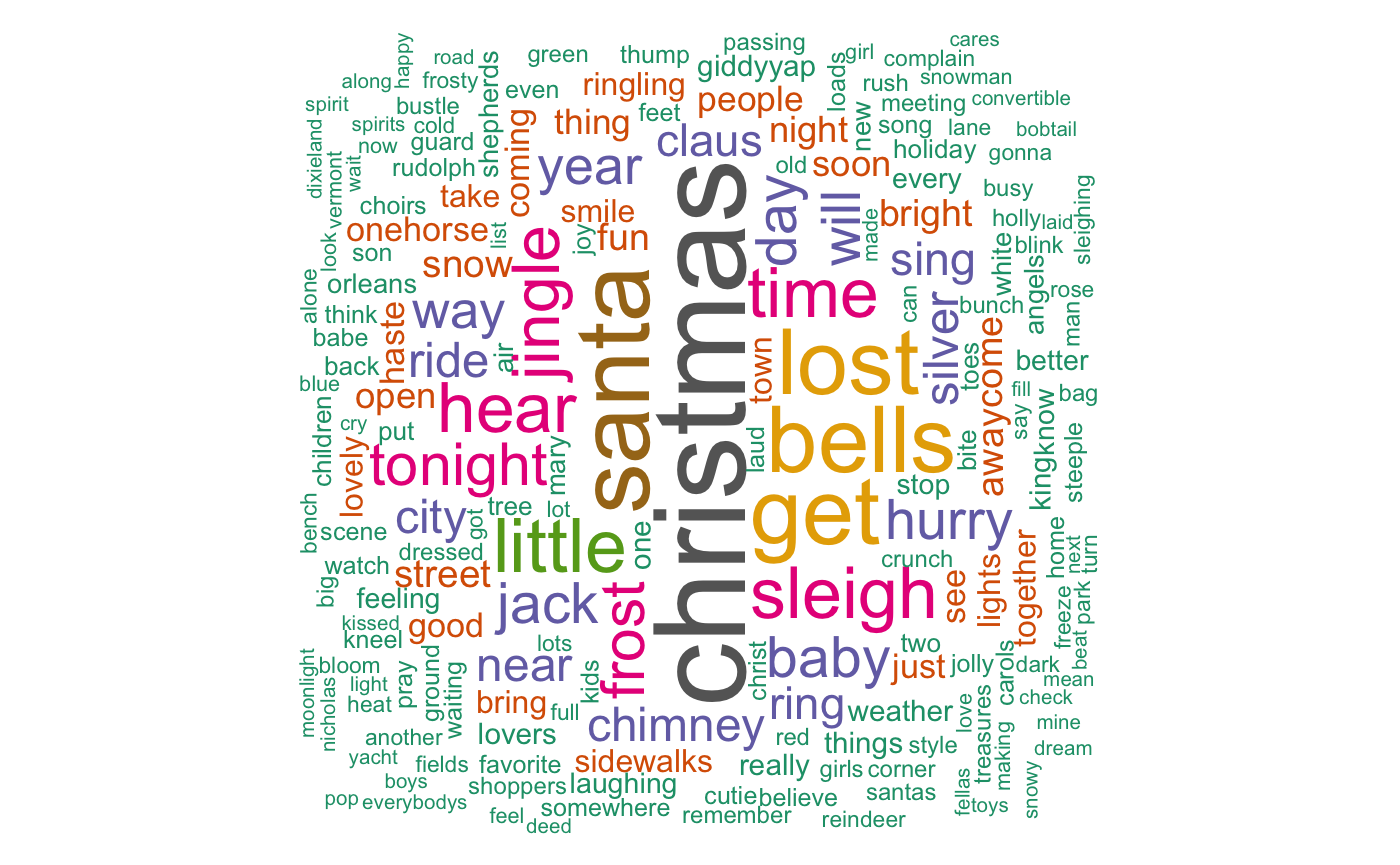
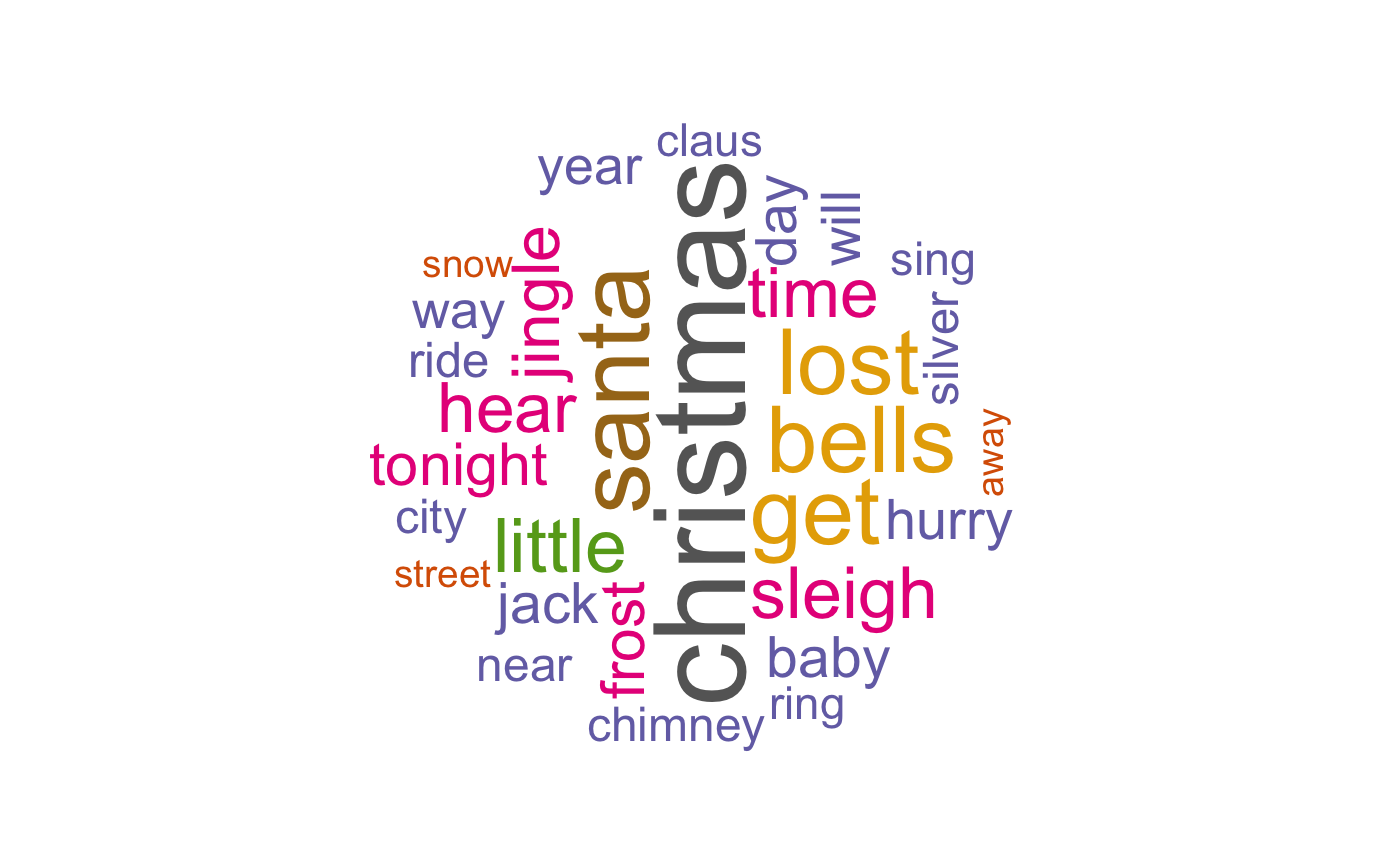
unit test done

diff --git a/docs/reference/create_wordcloud.html b/docs/reference/create_wordcloud.html
@@ -108,8 +108,8 @@ are already stored within the geniusR package.</p>
     
     </div>
 
-    <pre class="usage"><span class='fu'>create_wordcloud</span>(<span class='kw'>data</span> <span class='kw'>=</span> <span class='no'>data</span>, <span class='no'>playlist</span>, <span class='kw'>stop_vector</span> <span class='kw'>=</span> <span class='no'>F</span>,
-  <span class='kw'>del_file</span> <span class='kw'>=</span> <span class='no'>T</span>)</pre>
+    <pre class="usage"><span class='fu'>create_wordcloud</span>(<span class='kw'>data</span> <span class='kw'>=</span> <span class='no'>data</span>, <span class='no'>playlist</span>, <span class='kw'>stop_vector</span> <span class='kw'>=</span> <span class='fl'>NA</span>,
+  <span class='kw'>max_words</span> <span class='kw'>=</span> <span class='fl'>30</span>, <span class='kw'>del_file</span> <span class='kw'>=</span> <span class='no'>T</span>)</pre>
     
     <h2 class="hasAnchor" id="arguments"><a class="anchor" href="#arguments"></a>Arguments</h2>
     <table class="ref-arguments">
@@ -124,7 +124,11 @@ are already stored within the geniusR package.</p>
     </tr>
     <tr>
       <th>stop_vector</th>
-      <td><p>a boolean</p></td>
+      <td><p>a vector</p></td>
+    </tr>
+    <tr>
+      <th>max_words</th>
+      <td><p>an integer</p></td>
     </tr>
     <tr>
       <th>del_file</th>
@@ -150,9 +154,9 @@ the word cloud.</p>
 <span class='fu'>create_wordcloud</span>(<span class='kw'>data</span> <span class='kw'>=</span> <span class='no'>christmas_playlists</span>, <span class='st'>"Christmas Classics"</span>, <span class='fu'>c</span>(<span class='st'>"yeah"</span>, <span class='st'>"like"</span>), <span class='kw'>del_file</span> <span class='kw'>=</span> <span class='no'>T</span>)</div><div class='output co'>#&gt; <span class='message'>Loading required package: geniusR</span></div><div class='output co'>#&gt; <span class='message'>Loading required package: tm</span></div><div class='output co'>#&gt; <span class='message'>Loading required package: NLP</span></div><div class='output co'>#&gt; <span class='message'></span>
 #&gt; <span class='message'>Attaching package: ‘NLP’</span></div><div class='output co'>#&gt; <span class='message'>The following object is masked from ‘package:ggplot2’:</span>
 #&gt; <span class='message'></span>
-#&gt; <span class='message'>    annotate</span></div><div class='output co'>#&gt; <span class='message'>Loading required package: SnowballC</span></div><div class='output co'>#&gt; <span class='message'>Loading required package: RColorBrewer</span></div><div class='output co'>#&gt; <span class='message'>Loading required package: RCurl</span></div><div class='output co'>#&gt; <span class='message'>Loading required package: bitops</span></div><div class='output co'>#&gt; <span class='message'>Loading required package: XML</span></div><div class='output co'>#&gt; <span class='warning'>Warning: the condition has length &gt; 1 and only the first element will be used</span></div><div class='output co'>#&gt; <span class='warning'>Warning: the condition has length &gt; 1 and only the first element will be used</span></div><div class='output co'>#&gt; <span class='warning'>Warning: the condition has length &gt; 1 and only the first element will be used</span></div><div class='output co'>#&gt; <span class='warning'>Warning: the condition has length &gt; 1 and only the first element will be used</span></div><div class='output co'>#&gt; <span class='warning'>Warning: the condition has length &gt; 1 and only the first element will be used</span></div><div class='output co'>#&gt; <span class='warning'>Warning: the condition has length &gt; 1 and only the first element will be used</span></div><div class='output co'>#&gt; <span class='warning'>Warning: the condition has length &gt; 1 and only the first element will be used</span></div><div class='output co'>#&gt; <span class='warning'>Warning: the condition has length &gt; 1 and only the first element will be used</span></div><div class='output co'>#&gt; <span class='warning'>Warning: the condition has length &gt; 1 and only the first element will be used</span></div><div class='output co'>#&gt; <span class='warning'>Warning: the condition has length &gt; 1 and only the first element will be used</span></div><div class='output co'>#&gt; <span class='warning'>Warning: the condition has length &gt; 1 and only the first element will be used</span></div><div class='output co'>#&gt; <span class='warning'>Warning: the condition has length &gt; 1 and only the first element will be used</span></div><div class='output co'>#&gt; <span class='warning'>Warning: the condition has length &gt; 1 and only the first element will be used</span></div><div class='output co'>#&gt; <span class='warning'>Warning: the condition has length &gt; 1 and only the first element will be used</span></div><div class='output co'>#&gt; <span class='warning'>Warning: the condition has length &gt; 1 and only the first element will be used</span></div><div class='output co'>#&gt; <span class='warning'>Warning: the condition has length &gt; 1 and only the first element will be used</span></div><div class='output co'>#&gt; <span class='warning'>Warning: the condition has length &gt; 1 and only the first element will be used</span></div><div class='output co'>#&gt; <span class='warning'>Warning: the condition has length &gt; 1 and only the first element will be used</span></div><div class='output co'>#&gt; <span class='warning'>Warning: the condition has length &gt; 1 and only the first element will be used</span></div><div class='output co'>#&gt; <span class='warning'>Warning: the condition has length &gt; 1 and only the first element will be used</span></div><div class='output co'>#&gt; <span class='warning'>Warning: the condition has length &gt; 1 and only the first element will be used</span></div><div class='output co'>#&gt; <span class='warning'>Warning: the condition has length &gt; 1 and only the first element will be used</span></div><div class='output co'>#&gt; <span class='warning'>Warning: the condition has length &gt; 1 and only the first element will be used</span></div><div class='output co'>#&gt; <span class='warning'>Warning: the condition has length &gt; 1 and only the first element will be used</span></div><div class='output co'>#&gt; <span class='warning'>Warning: the condition has length &gt; 1 and only the first element will be used</span></div><div class='output co'>#&gt; <span class='warning'>Warning: the condition has length &gt; 1 and only the first element will be used</span></div><div class='output co'>#&gt; <span class='warning'>Warning: the condition has length &gt; 1 and only the first element will be used</span></div><div class='output co'>#&gt; <span class='warning'>Warning: the condition has length &gt; 1 and only the first element will be used</span></div><div class='output co'>#&gt; <span class='warning'>Warning: the condition has length &gt; 1 and only the first element will be used</span></div><div class='output co'>#&gt; <span class='warning'>Warning: the condition has length &gt; 1 and only the first element will be used</span></div><div class='output co'>#&gt; <span class='warning'>Warning: the condition has length &gt; 1 and only the first element will be used</span></div><div class='output co'>#&gt; <span class='warning'>Warning: the condition has length &gt; 1 and only the first element will be used</span></div><div class='output co'>#&gt; <span class='warning'>Warning: the condition has length &gt; 1 and only the first element will be used</span></div><div class='output co'>#&gt; <span class='warning'>Warning: the condition has length &gt; 1 and only the first element will be used</span></div><div class='output co'>#&gt; <span class='warning'>Warning: the condition has length &gt; 1 and only the first element will be used</span></div><div class='output co'>#&gt; <span class='warning'>Warning: the condition has length &gt; 1 and only the first element will be used</span></div><div class='output co'>#&gt; <span class='warning'>Warning: the condition has length &gt; 1 and only the first element will be used</span></div><div class='output co'>#&gt; <span class='warning'>Warning: the condition has length &gt; 1 and only the first element will be used</span></div><div class='output co'>#&gt; <span class='warning'>Warning: the condition has length &gt; 1 and only the first element will be used</span></div><div class='output co'>#&gt; <span class='warning'>Warning: the condition has length &gt; 1 and only the first element will be used</span></div><div class='output co'>#&gt; <span class='warning'>Warning: the condition has length &gt; 1 and only the first element will be used</span></div><div class='output co'>#&gt; <span class='warning'>Warning: the condition has length &gt; 1 and only the first element will be used</span></div><div class='output co'>#&gt; <span class='warning'>Warning: the condition has length &gt; 1 and only the first element will be used</span></div><div class='output co'>#&gt; <span class='warning'>Warning: the condition has length &gt; 1 and only the first element will be used</span></div><div class='output co'>#&gt; <span class='warning'>Warning: the condition has length &gt; 1 and only the first element will be used</span></div><div class='output co'>#&gt; <span class='warning'>Warning: the condition has length &gt; 1 and only the first element will be used</span></div><div class='output co'>#&gt; <span class='warning'>Warning: the condition has length &gt; 1 and only the first element will be used</span></div><div class='output co'>#&gt; <span class='warning'>Warning: the condition has length &gt; 1 and only the first element will be used</span></div><div class='output co'>#&gt; <span class='warning'>Warning: the condition has length &gt; 1 and only the first element will be used</span></div><div class='output co'>#&gt; <span class='warning'>Warning: the condition has length &gt; 1 and only the first element will be used</span></div><div class='output co'>#&gt; <span class='warning'>Warning: the condition has length &gt; 1 and only the first element will be used</span></div><div class='output co'>#&gt; <span class='warning'>Warning: the condition has length &gt; 1 and only the first element will be used</span></div><div class='output co'>#&gt; <span class='warning'>Warning: the condition has length &gt; 1 and only the first element will be used</span></div><div class='output co'>#&gt; <span class='warning'>Warning: the condition has length &gt; 1 and only the first element will be used</span></div><div class='output co'>#&gt; <span class='warning'>Warning: the condition has length &gt; 1 and only the first element will be used</span></div><div class='output co'>#&gt; <span class='warning'>Warning: transformation drops documents</span></div><div class='output co'>#&gt; <span class='warning'>Warning: transformation drops documents</span></div><div class='output co'>#&gt; <span class='warning'>Warning: transformation drops documents</span></div><div class='output co'>#&gt; <span class='warning'>Warning: transformation drops documents</span></div><div class='output co'>#&gt; <span class='warning'>Warning: transformation drops documents</span></div><div class='img'><img src='create_wordcloud-1.png' alt='' width='700' height='433' /></div><div class='output co'>#&gt; $tdm
-#&gt; &lt;&lt;TermDocumentMatrix (terms: 804, documents: 1817)&gt;&gt;
-#&gt; Non-/sparse entries: 5538/1455330
+#&gt; <span class='message'>    annotate</span></div><div class='output co'>#&gt; <span class='message'>Loading required package: SnowballC</span></div><div class='output co'>#&gt; <span class='message'>Loading required package: RColorBrewer</span></div><div class='output co'>#&gt; <span class='message'>Loading required package: RCurl</span></div><div class='output co'>#&gt; <span class='message'>Loading required package: bitops</span></div><div class='output co'>#&gt; <span class='message'>Loading required package: XML</span></div><div class='output co'>#&gt; <span class='warning'>Warning: the condition has length &gt; 1 and only the first element will be used</span></div><div class='output co'>#&gt; <span class='warning'>Warning: the condition has length &gt; 1 and only the first element will be used</span></div><div class='output co'>#&gt; <span class='warning'>Warning: the condition has length &gt; 1 and only the first element will be used</span></div><div class='output co'>#&gt; <span class='warning'>Warning: the condition has length &gt; 1 and only the first element will be used</span></div><div class='output co'>#&gt; <span class='warning'>Warning: the condition has length &gt; 1 and only the first element will be used</span></div><div class='output co'>#&gt; <span class='warning'>Warning: the condition has length &gt; 1 and only the first element will be used</span></div><div class='output co'>#&gt; <span class='warning'>Warning: the condition has length &gt; 1 and only the first element will be used</span></div><div class='output co'>#&gt; <span class='warning'>Warning: the condition has length &gt; 1 and only the first element will be used</span></div><div class='output co'>#&gt; <span class='warning'>Warning: the condition has length &gt; 1 and only the first element will be used</span></div><div class='output co'>#&gt; <span class='warning'>Warning: the condition has length &gt; 1 and only the first element will be used</span></div><div class='output co'>#&gt; <span class='warning'>Warning: the condition has length &gt; 1 and only the first element will be used</span></div><div class='output co'>#&gt; <span class='warning'>Warning: the condition has length &gt; 1 and only the first element will be used</span></div><div class='output co'>#&gt; <span class='warning'>Warning: the condition has length &gt; 1 and only the first element will be used</span></div><div class='output co'>#&gt; <span class='warning'>Warning: the condition has length &gt; 1 and only the first element will be used</span></div><div class='output co'>#&gt; <span class='warning'>Warning: the condition has length &gt; 1 and only the first element will be used</span></div><div class='output co'>#&gt; <span class='warning'>Warning: the condition has length &gt; 1 and only the first element will be used</span></div><div class='output co'>#&gt; <span class='warning'>Warning: the condition has length &gt; 1 and only the first element will be used</span></div><div class='output co'>#&gt; <span class='warning'>Warning: the condition has length &gt; 1 and only the first element will be used</span></div><div class='output co'>#&gt; <span class='warning'>Warning: the condition has length &gt; 1 and only the first element will be used</span></div><div class='output co'>#&gt; <span class='warning'>Warning: the condition has length &gt; 1 and only the first element will be used</span></div><div class='output co'>#&gt; <span class='warning'>Warning: the condition has length &gt; 1 and only the first element will be used</span></div><div class='output co'>#&gt; <span class='warning'>Warning: the condition has length &gt; 1 and only the first element will be used</span></div><div class='output co'>#&gt; <span class='warning'>Warning: the condition has length &gt; 1 and only the first element will be used</span></div><div class='output co'>#&gt; <span class='warning'>Warning: the condition has length &gt; 1 and only the first element will be used</span></div><div class='output co'>#&gt; <span class='warning'>Warning: the condition has length &gt; 1 and only the first element will be used</span></div><div class='output co'>#&gt; <span class='warning'>Warning: the condition has length &gt; 1 and only the first element will be used</span></div><div class='output co'>#&gt; <span class='warning'>Warning: the condition has length &gt; 1 and only the first element will be used</span></div><div class='output co'>#&gt; <span class='warning'>Warning: the condition has length &gt; 1 and only the first element will be used</span></div><div class='output co'>#&gt; <span class='warning'>Warning: the condition has length &gt; 1 and only the first element will be used</span></div><div class='output co'>#&gt; <span class='warning'>Warning: the condition has length &gt; 1 and only the first element will be used</span></div><div class='output co'>#&gt; <span class='warning'>Warning: the condition has length &gt; 1 and only the first element will be used</span></div><div class='output co'>#&gt; <span class='warning'>Warning: the condition has length &gt; 1 and only the first element will be used</span></div><div class='output co'>#&gt; <span class='warning'>Warning: the condition has length &gt; 1 and only the first element will be used</span></div><div class='output co'>#&gt; <span class='warning'>Warning: the condition has length &gt; 1 and only the first element will be used</span></div><div class='output co'>#&gt; <span class='warning'>Warning: the condition has length &gt; 1 and only the first element will be used</span></div><div class='output co'>#&gt; <span class='warning'>Warning: the condition has length &gt; 1 and only the first element will be used</span></div><div class='output co'>#&gt; <span class='warning'>Warning: the condition has length &gt; 1 and only the first element will be used</span></div><div class='output co'>#&gt; <span class='warning'>Warning: the condition has length &gt; 1 and only the first element will be used</span></div><div class='output co'>#&gt; <span class='warning'>Warning: the condition has length &gt; 1 and only the first element will be used</span></div><div class='output co'>#&gt; <span class='warning'>Warning: the condition has length &gt; 1 and only the first element will be used</span></div><div class='output co'>#&gt; <span class='warning'>Warning: the condition has length &gt; 1 and only the first element will be used</span></div><div class='output co'>#&gt; <span class='warning'>Warning: the condition has length &gt; 1 and only the first element will be used</span></div><div class='output co'>#&gt; <span class='warning'>Warning: the condition has length &gt; 1 and only the first element will be used</span></div><div class='output co'>#&gt; <span class='warning'>Warning: the condition has length &gt; 1 and only the first element will be used</span></div><div class='output co'>#&gt; <span class='warning'>Warning: the condition has length &gt; 1 and only the first element will be used</span></div><div class='output co'>#&gt; <span class='warning'>Warning: the condition has length &gt; 1 and only the first element will be used</span></div><div class='output co'>#&gt; <span class='warning'>Warning: the condition has length &gt; 1 and only the first element will be used</span></div><div class='output co'>#&gt; <span class='warning'>Warning: the condition has length &gt; 1 and only the first element will be used</span></div><div class='output co'>#&gt; <span class='warning'>Warning: the condition has length &gt; 1 and only the first element will be used</span></div><div class='output co'>#&gt; <span class='warning'>Warning: the condition has length &gt; 1 and only the first element will be used</span></div><div class='output co'>#&gt; <span class='warning'>Warning: the condition has length &gt; 1 and only the first element will be used</span></div><div class='output co'>#&gt; <span class='warning'>Warning: the condition has length &gt; 1 and only the first element will be used</span></div><div class='output co'>#&gt; <span class='warning'>Warning: the condition has length &gt; 1 and only the first element will be used</span></div><div class='output co'>#&gt; <span class='warning'>Warning: the condition has length &gt; 1 and only the first element will be used</span></div><div class='output co'>#&gt; <span class='warning'>Warning: the condition has length &gt; 1 and only the first element will be used</span></div><div class='output co'>#&gt; <span class='warning'>Warning: transformation drops documents</span></div><div class='output co'>#&gt; <span class='warning'>Warning: transformation drops documents</span></div><div class='output co'>#&gt; <span class='warning'>Warning: transformation drops documents</span></div><div class='output co'>#&gt; <span class='warning'>Warning: transformation drops documents</span></div><div class='output co'>#&gt; <span class='warning'>Warning: transformation drops documents</span></div><div class='output co'>#&gt; <span class='warning'>Warning: transformation drops documents</span></div><div class='img'><img src='create_wordcloud-1.png' alt='' width='700' height='433' /></div><div class='output co'>#&gt; $tdm
+#&gt; &lt;&lt;TermDocumentMatrix (terms: 803, documents: 1817)&gt;&gt;
+#&gt; Non-/sparse entries: 5536/1453515
 #&gt; Sparsity           : 100%
 #&gt; Maximal term length: 16
 #&gt; Weighting          : term frequency (tf)
@@ -636,7 +640,6 @@ the word cloud.</p>
 #&gt; knows                       knows    2
 #&gt; give                         give    2
 #&gt; yoohoo                     yoohoo    2
-#&gt; like                         like    2
 #&gt; carols                     carols    2
 #&gt; dressed                   dressed    2
 #&gt; kids                         kids    2

diff --git a/docs/articles/spotiverseR.html b/docs/articles/spotiverseR.html
@@ -431,8 +431,8 @@ Spotify Singles: Christmas Collection
 <span class="co">#&gt; drops documents</span>
 <span class="co">#&gt; Warning in tm_map.SimpleCorpus(docs, stripWhitespace): transformation drops</span>
 <span class="co">#&gt; documents</span>
-<span class="co">#&gt; Warning in wordcloud(d$word, d$freq, min.freq = min.freq, max.words =</span>
-<span class="co">#&gt; max.words, : disappear could not be fit on page. It will not be plotted.</span></code></pre></div>
+<span class="co">#&gt; Warning in tm_map.SimpleCorpus(docs, removeWords, excludeWords):</span>
+<span class="co">#&gt; transformation drops documents</span></code></pre></div>
 <p><img src="spotiverseR_files/figure-html/unnamed-chunk-23-1.png" width="700"></p>
 <pre><code>#&gt; $tdm
 #&gt; &lt;&lt;TermDocumentMatrix (terms: 581, documents: 1027)&gt;&gt;

diff --git a/docs/reference/create_joyplot.html b/docs/reference/create_joyplot.html
@@ -133,7 +133,7 @@ to plot a joyplot containing playlists and the distributions of a numeric variab
     
     <h2 class="hasAnchor" id="details"><a class="anchor" href="#details"></a>Details</h2>
 
-    <p>This function uses <code>ggplot2</code>,<code>rlang</code>, and <code>ggridges</code>.</p>
+    <p>This function uses <code>ggplot2</code>,<code>rlang</code>,<code>dplyr</code>, and <code>ggridges</code>.</p>
     
 
     <h2 class="hasAnchor" id="examples"><a class="anchor" href="#examples"></a>Examples</h2>
